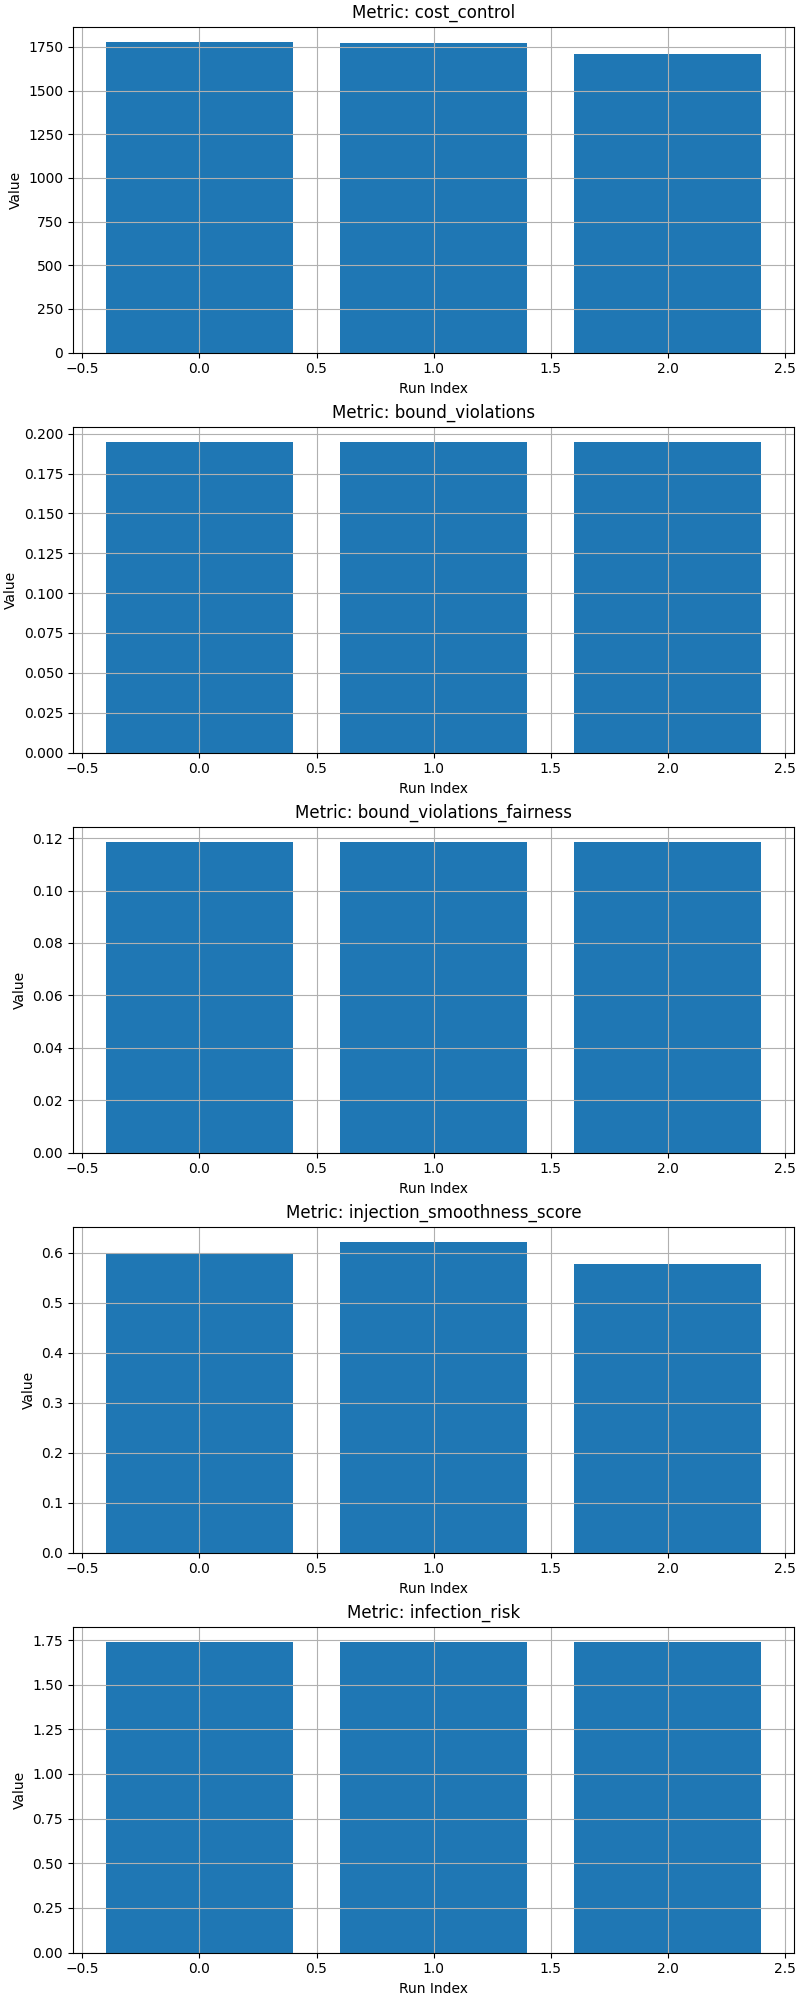
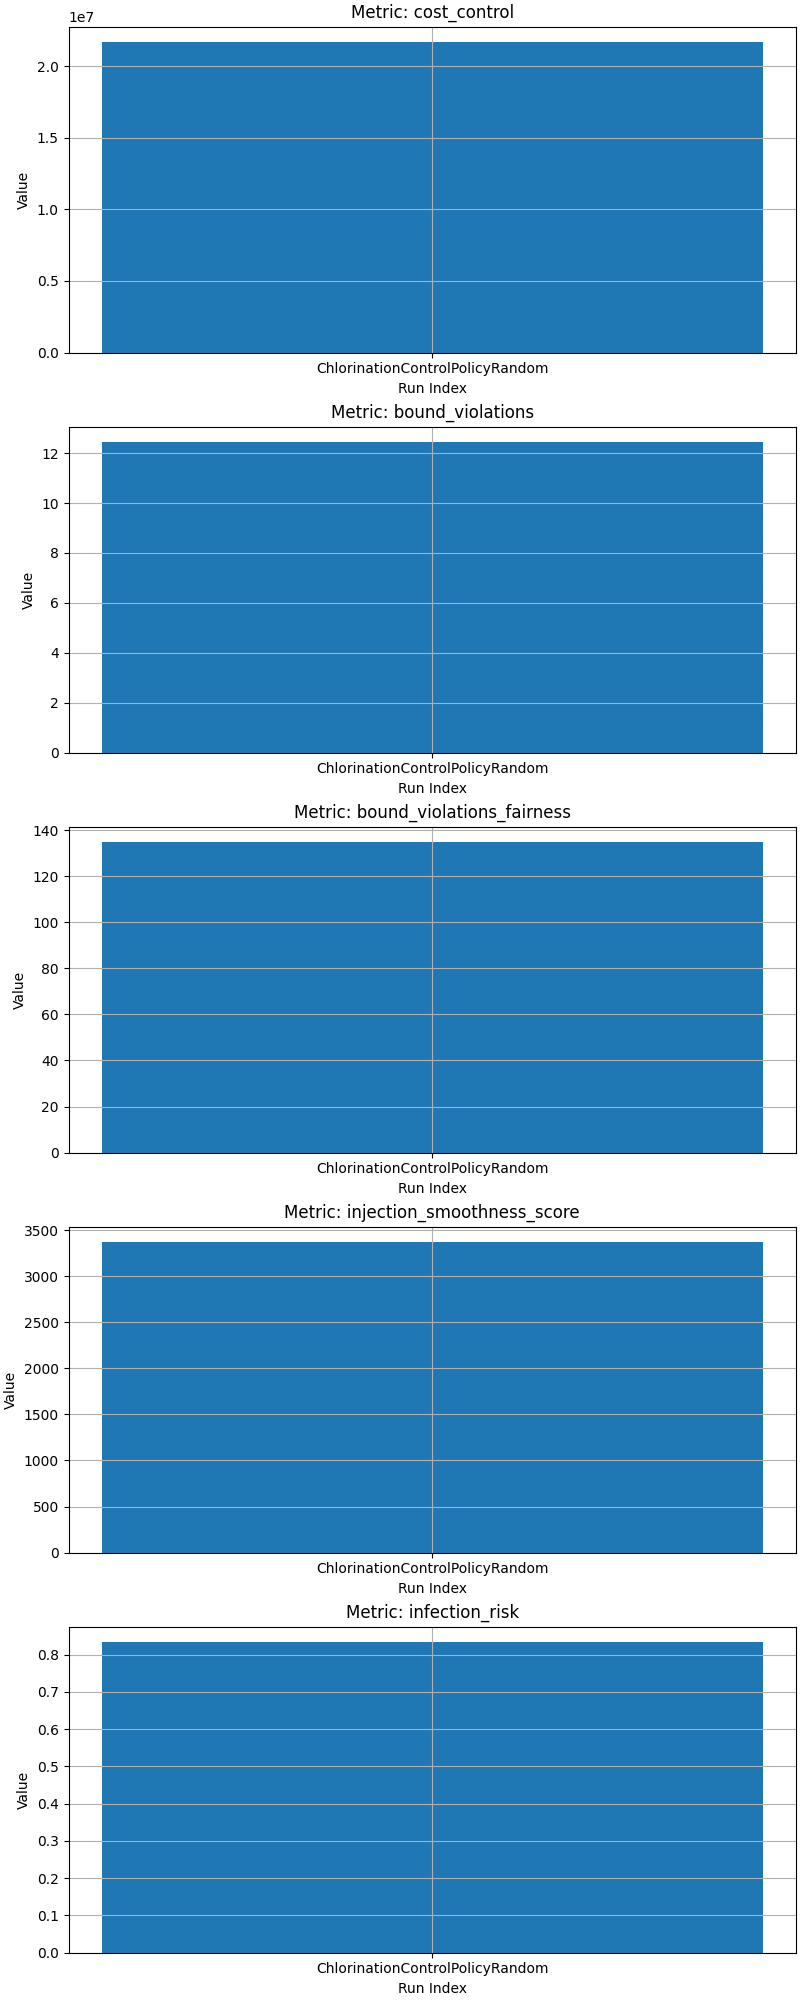
added constant cholorine injection policy

diff --git a/example.py b/example.py
@@ -1,20 +1,26 @@
 """
 Example of how to use the starter code.
 """
+import numpy as np
+
 from env import WaterChlorinationEnv
 from scenarios import load_scenario
-from control_policy import ChlorinationControlPolicyRandom
-from evaluation import evaluate
+from control_policy import ChlorinationControlPolicyRandom, ChlorinationControlPolicyConstant
 from load_my_policy import load_policy
 from utils import compare_models
 
 if __name__ == "__main__":
     # Compare multiple policies
     with WaterChlorinationEnv(**load_scenario(scenario_id=6)) as env:
+        # Collect data and train afterwards (or try to create a chlorine concentration predictor)
         models = [
-            # load_policy(env, zip_file_name="my_ppo_model.zip"),
-            load_policy(env, zip_file_name="my_ppo_model_10k-steps_1_scenario.zip"),
-            # load_policy(env, zip_file_name="my_ppo_model_10k-steps_3_scenario.zip"),
-            load_policy(env, zip_file_name="my_ppo_model_10k-steps_1_scenario_custom_reward_1.0.zip"),
+            ChlorinationControlPolicyRandom(env),
+            #ChlorinationControlPolicyConstant(env, constant_action=np.array([500, 500, 500, 500, 500])),
+            #load_policy(env, zip_file_name="my_ppo_model.zip"),
+            #load_policy(env, zip_file_name="my_ppo_model_10k-steps_1_scenario.zip"),
+            #load_policy(env, zip_file_name="my_ppo_model_10k-steps_3_scenario.zip"),
+            #load_policy(env, zip_file_name="my_ppo_model_10k-steps_1_scenario_custom_reward_1.0.zip"),
         ]
         compare_models(models, env, save_results_to="results.png")
+
+

diff --git a/utils.py b/utils.py
@@ -5,7 +5,7 @@ from env import WaterChlorinationEnv
 from evaluation import evaluate
 import matplotlib.pyplot as plt
 
-def visualize_results(results, save_fig_filname: None | str = None) -> None:
+def visualize_results(results, model_names: list[str], save_fig_filname: None | str = None) -> None:
     """
     Visualizes comparison of evaluation metrics from a list of result dictionaries.
 
@@ -43,6 +43,8 @@ def visualize_results(results, save_fig_filname: None | str = None) -> None:
         ax.set_title(f"Metric: {key}")
         ax.set_xlabel("Run Index")
         ax.set_ylabel("Value")
+        ax.set_xticks(range(num_runs))
+        ax.set_xticklabels([i for i in model_names])
         ax.grid(True)
 
     if save_fig_filname:
@@ -67,7 +69,8 @@ def compare_models(models: list, env: WaterChlorinationEnv, save_results_to: Non
         Environment in which the policies are evaluated.
     """
     results = []
+    model_names = [model.__class__.__name__ for model in models]
     for model in models:
         print(f"Evaluating policy: {model.__class__.__name__}")
         results.append(evaluate(model, env))
-    visualize_results(results, save_fig_filname=save_results_to)
+    visualize_results(results, model_names, save_fig_filname=save_results_to)

diff --git a/control_policy.py b/control_policy.py
@@ -45,3 +45,14 @@ class ChlorinationControlPolicyRandom(ChlorinationControlPolicy):
     """
     def compute_action(self, observations: np.ndarray) -> np.ndarray:
         return self._gym_action_space.sample()
+
+class ChlorinationControlPolicyConstant(ChlorinationControlPolicy):
+    """
+    Constant control policy -- picks a constant control action in every time step.
+    """
+    def __init__(self, env: WaterChlorinationEnv, constant_action: np.ndarray):
+        super().__init__(env)
+        self._constant_action = constant_action
+
+    def compute_action(self, observations: np.ndarray) -> np.ndarray:
+        return self._constant_action
